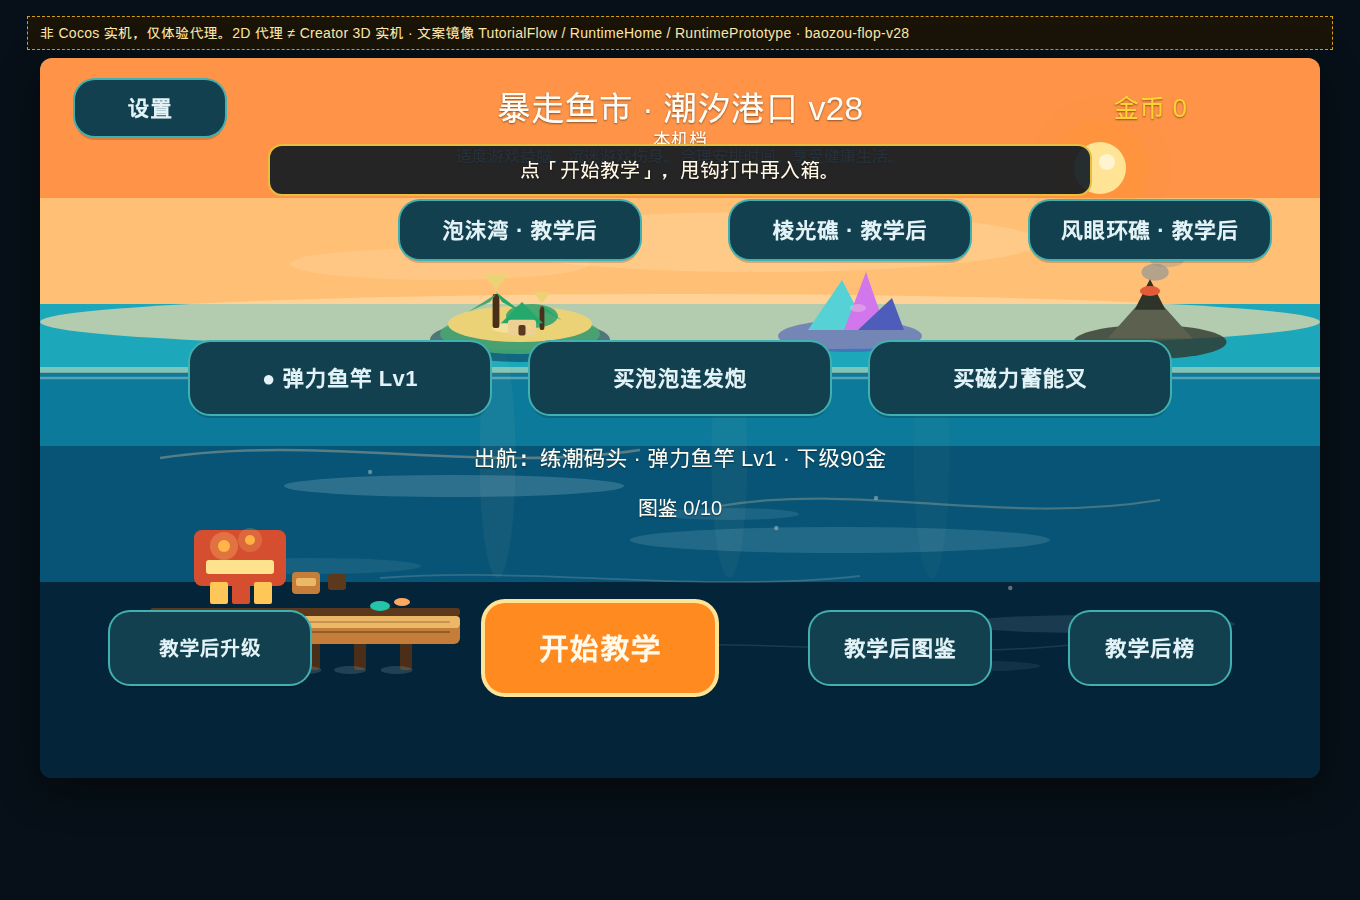
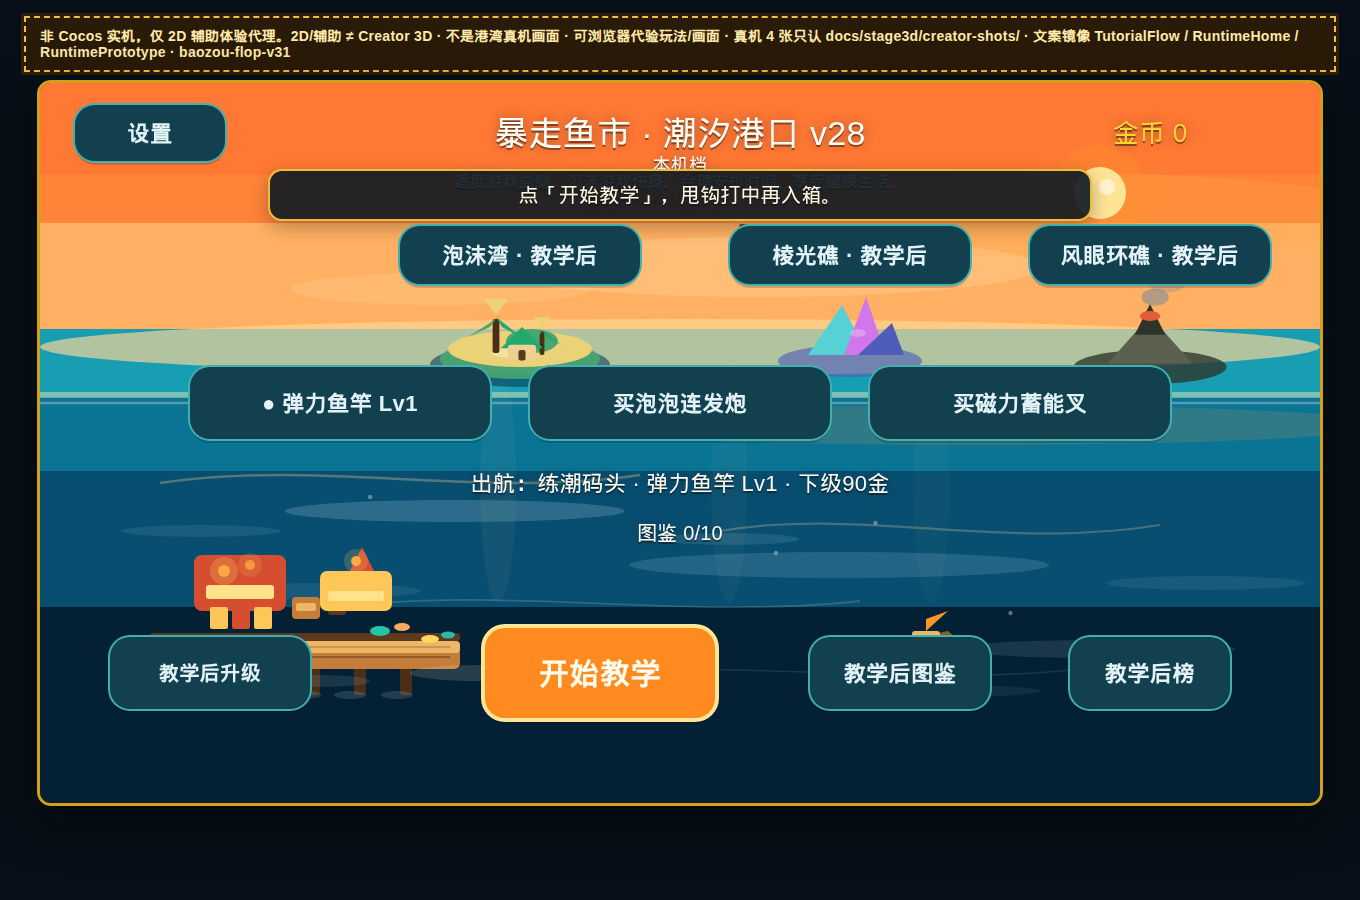
更新代理实机截图，并避免猎场鱼名把按钮冲掉
重截 first-run-preview 九张（含入箱只留丢掉入箱、卖完 11/90）。鱼名过长改为换行，不再因色板字段把抛竿渲染打断。矢量 bayfin/dock/water 跟着配方重出。仍非 Creator 证据。

diff --git a/tools/first-run-preview/preview.js b/tools/first-run-preview/preview.js
@@ -793,7 +793,9 @@ function renderSea() {
   label(multiplier, 22, -470, 318, 280);
   label(`本局 ${runCoins}`, 24, 470, 318, 280, rgb(COPY.colors.gold));
   label(status, 22, 0, 268, 760, rgb(COPY.colors.cream));
-  label(fishName, 24, 0, 228);
+  const nameEl = label(fishName, 22, 0, 220, 780, rgb(COPY.colors.palette.hud));
+  nameEl.style.whiteSpace = "normal";
+  nameEl.style.lineHeight = "1.25";
   if (callout && performance.now() < calloutUntil) {
     const lift = Math.min(36, ((performance.now() - calloutBorn) / 450) * 36);
     label(callout, 28, 0, 188 + lift, 900, "#ffec78");

diff --git a/tools/first-run-preview/shots/README.md b/tools/first-run-preview/shots/README.md
@@ -2,4 +2,4 @@
 
 **非 Cocos 实机，仅 2D 辅助体验代理。2D/辅助 ≠ Creator 3D，不能当真机手感 / 3D 画面证据。**
 
-这些 png 来自 `first-run-preview`，**不是** `docs/stage3d/expect_*.jpg`，更 **不是** Creator 4 张。真机图只认 `docs/stage3d/creator-shots/`。
+这些 png 来自 `first-run-preview`（本批已重截），**不是** `docs/stage3d/expect_*.jpg`，更 **不是** Creator 4 张。真机图只认 `docs/stage3d/creator-shots/`（仍为 0/4）。
